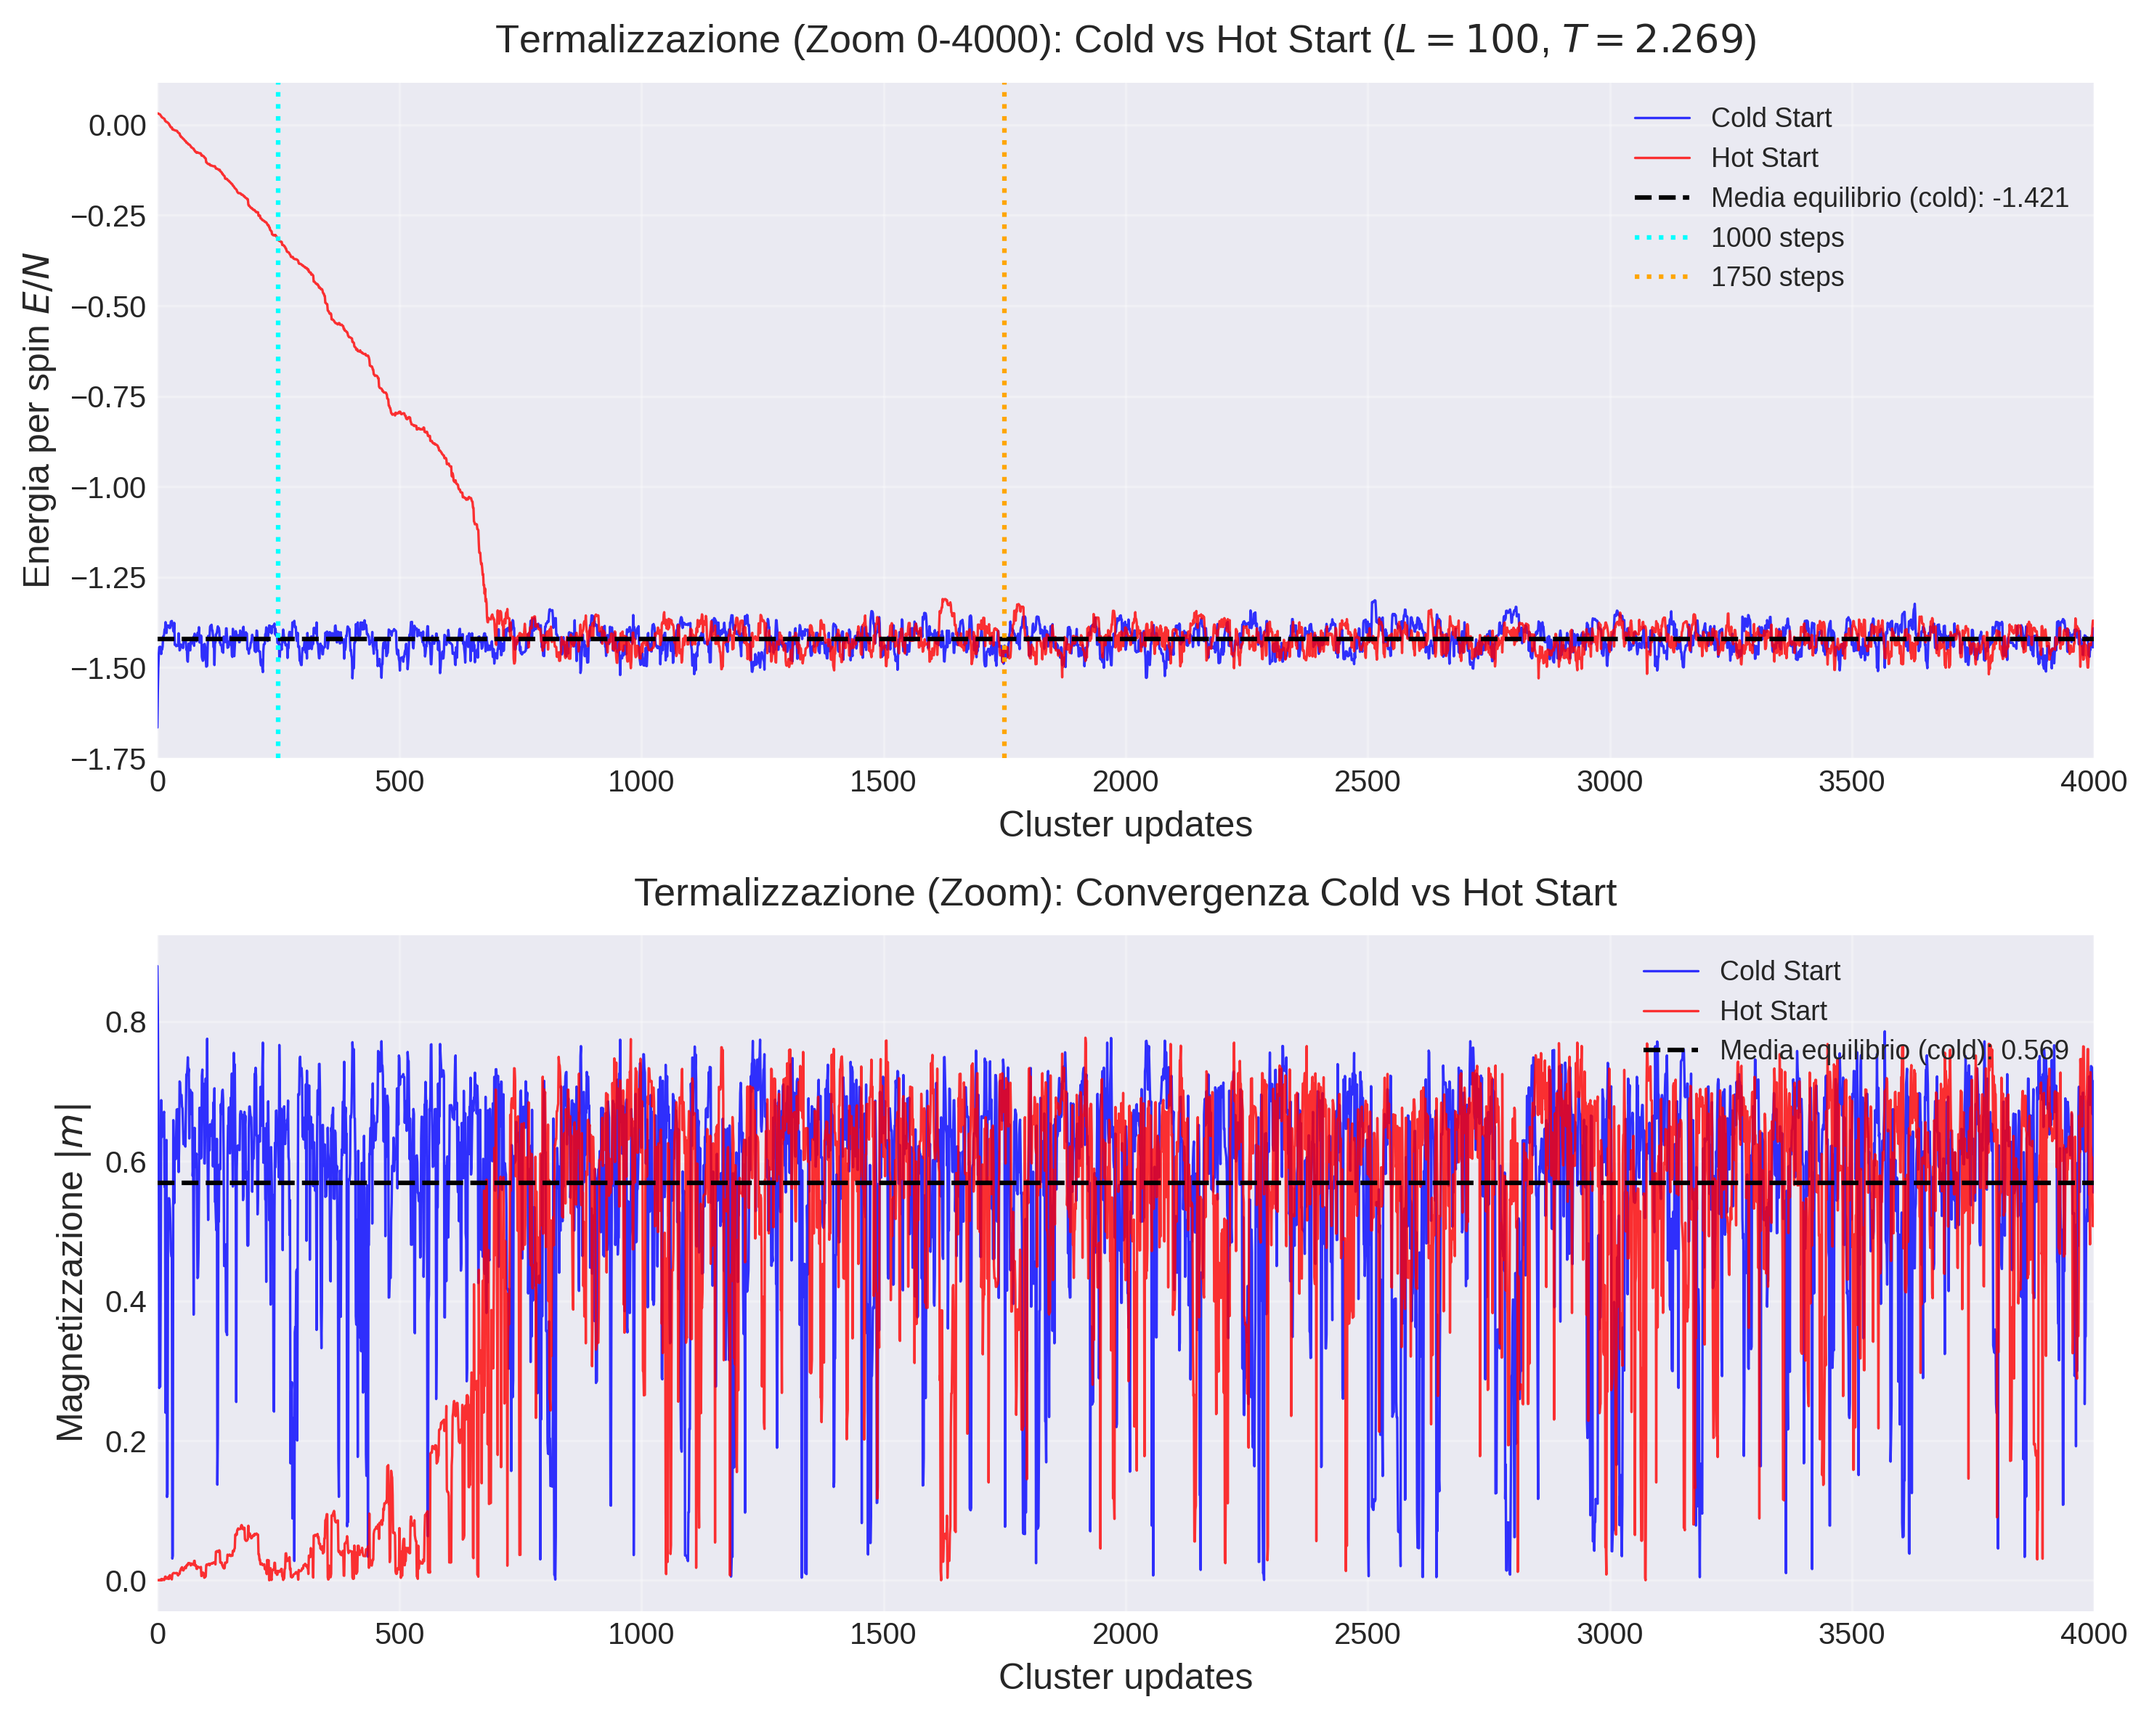
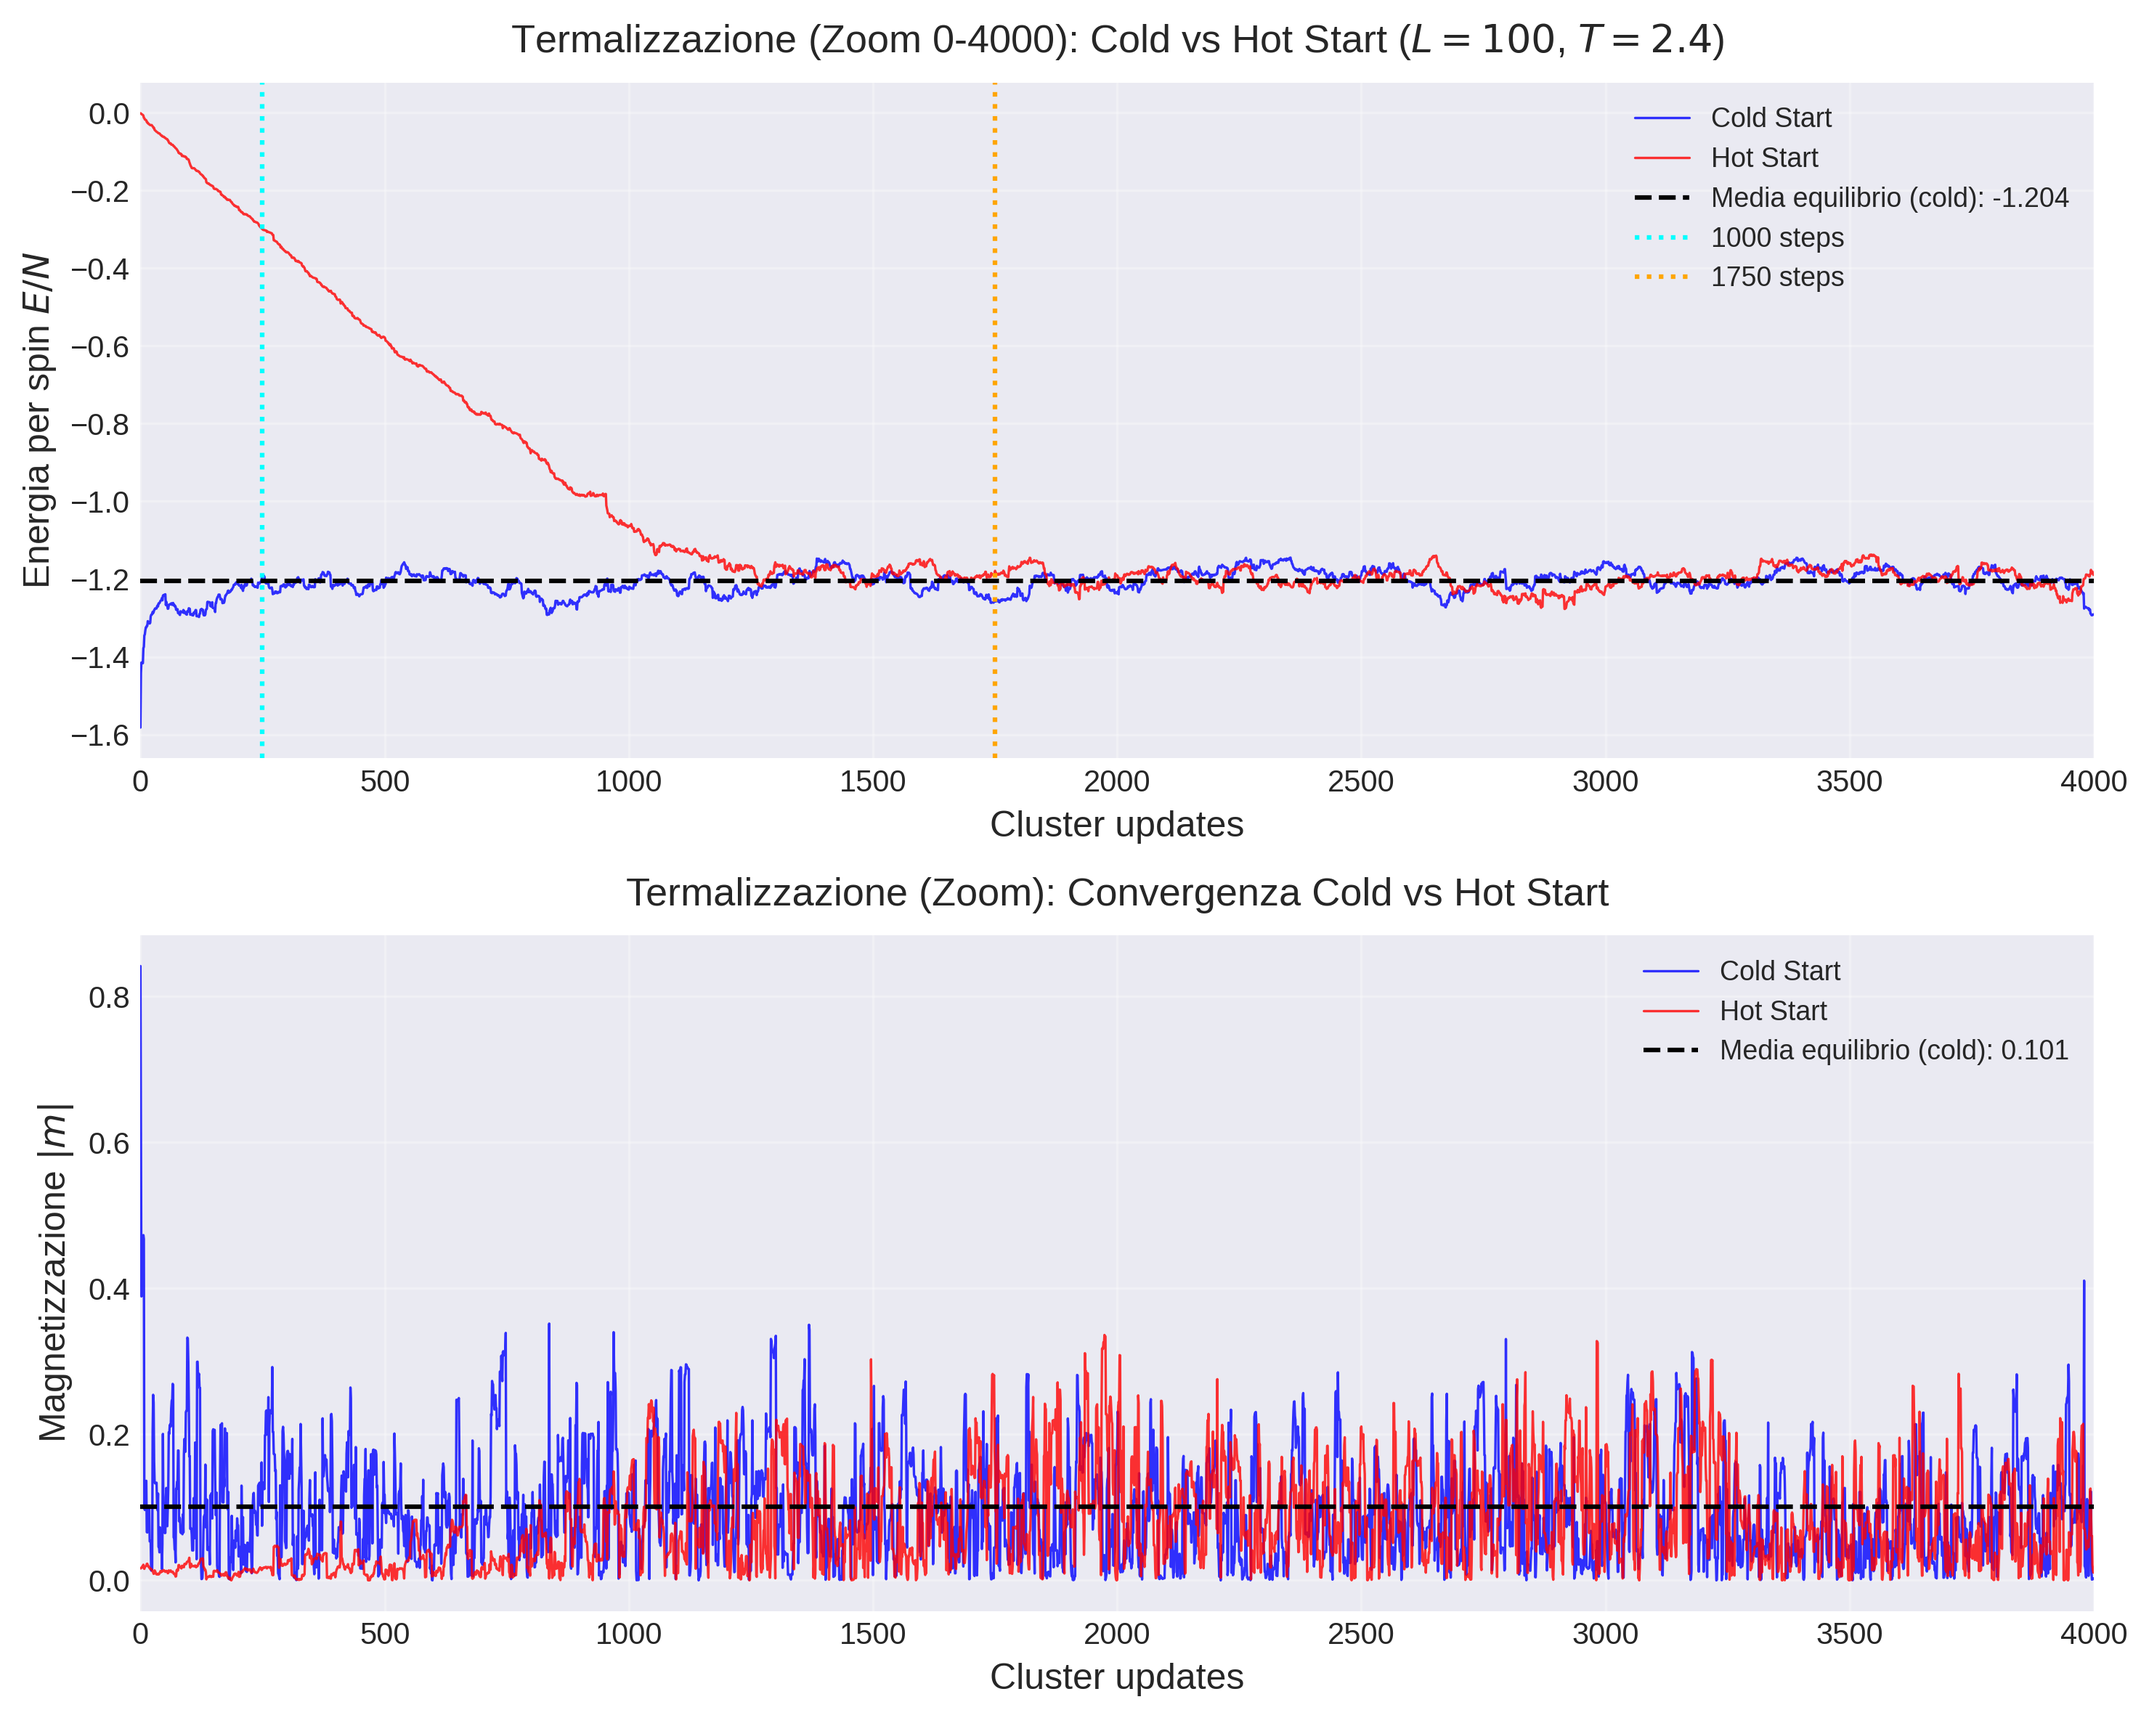
auto: 2026-01-19 14:30:01

diff --git a/Module1/src/thermalization_test.c b/Module1/src/thermalization_test.c
@@ -4,10 +4,15 @@
  * Esegue DUE simulazioni (cold start e hot start) e salva E(t), m(t)
  * ad ogni step durante la termalizzazione per analisi.
  *
- * Parametri letti da params.txt:
- *   THERM_L      - Dimensione reticolo
- *   THERM_T      - Temperatura
- *   THERM_NSTEPS - Numero di cluster updates
+ * Parametri OBBLIGATORI letti da params.txt:
+ *   THERM_L           - Dimensione reticolo
+ *   THERM_T           - Temperatura
+ *   THERMALIZATION    - Steps di termalizzazione
+ *   MEASUREMENTS      - Steps di misura
+ *   THERMALIZATION_HOT - Steps per hot start
+ *
+ * nsteps_cold = THERMALIZATION + MEASUREMENTS
+ * nsteps_hot  = THERMALIZATION_HOT
  */
 
 #include <stdio.h>
@@ -23,7 +28,7 @@
 #define OUTPUT_FILE_HOT "data/thermalization_hot.dat"
 #define PARAMS_FILE "params.txt"
 
-/* Funzione per leggere parametri da params.txt */
+/* Funzione per leggere parametri da params.txt - NESSUN DEFAULT */
 static int read_params(int *L, double *T, int *nsteps_cold, int *nsteps_hot) {
     FILE *fp = fopen(PARAMS_FILE, "r");
     if (!fp) {
@@ -32,12 +37,8 @@ static int read_params(int *L, double *T, int *nsteps_cold, int *nsteps_hot) {
     }
 
     char line[256];
-    int found_L = 0, found_T = 0;
-    int found_therm = 0, found_meas = 0, found_hot = 0;
-
-    // Valori default
-    *nsteps_cold = 410000;
-    *nsteps_hot = 10000;
+    int found_L = 0, found_T = 0, found_therm = 0, found_meas = 0, found_hot = 0;
+    int thermalization = 0, measurements = 0;
 
     while (fgets(line, sizeof(line), fp)) {
         // Salta commenti e righe vuote
@@ -46,7 +47,7 @@ static int read_params(int *L, double *T, int *nsteps_cold, int *nsteps_hot) {
         // Rimuovi newline
         line[strcspn(line, "\n")] = 0;
 
-        // Parsing
+        // Parsing - IMPORTANTE: THERMALIZATION_HOT deve essere controllato PRIMA di THERMALIZATION
         if (strstr(line, "THERM_L") && strstr(line, "=")) {
             char *eq = strchr(line, '=');
             if (eq) {
@@ -71,46 +72,49 @@ static int read_params(int *L, double *T, int *nsteps_cold, int *nsteps_hot) {
         else if (strstr(line, "THERMALIZATION") && strstr(line, "=") && !strstr(line, "HOT")) {
             char *eq = strchr(line, '=');
             if (eq) {
+                thermalization = atoi(eq + 1);
                 found_therm = 1;
-                // nsteps_cold = THERMALIZATION + MEASUREMENTS
             }
         }
         else if (strstr(line, "MEASUREMENTS") && strstr(line, "=")) {
             char *eq = strchr(line, '=');
             if (eq) {
+                measurements = atoi(eq + 1);
                 found_meas = 1;
             }
         }
     }
-
-    // Rileggi per calcolare nsteps_cold = THERMALIZATION + MEASUREMENTS
-    rewind(fp);
-    int therm_val = 10000, meas_val = 400000;
-    while (fgets(line, sizeof(line), fp)) {
-        if (line[0] == '#' || line[0] == '\n') continue;
-        line[strcspn(line, "\n")] = 0;
-
-        if (strstr(line, "THERMALIZATION") && strstr(line, "=") && !strstr(line, "HOT")) {
-            char *eq = strchr(line, '=');
-            if (eq) therm_val = atoi(eq + 1);
-        }
-        else if (strstr(line, "MEASUREMENTS") && strstr(line, "=")) {
-            char *eq = strchr(line, '=');
-            if (eq) meas_val = atoi(eq + 1);
-        }
-    }
-    *nsteps_cold = therm_val + meas_val;
-
     fclose(fp);
 
-    if (!found_L || !found_T) {
-        fprintf(stderr, "ERRORE: parametri THERM_L, THERM_T non trovati in %s\n", PARAMS_FILE);
+    // Verifica che TUTTI i parametri siano stati trovati
+    int error = 0;
+    if (!found_L) {
+        fprintf(stderr, "ERRORE: parametro THERM_L non trovato in %s\n", PARAMS_FILE);
+        error = 1;
+    }
+    if (!found_T) {
+        fprintf(stderr, "ERRORE: parametro THERM_T non trovato in %s\n", PARAMS_FILE);
+        error = 1;
+    }
+    if (!found_therm) {
+        fprintf(stderr, "ERRORE: parametro THERMALIZATION non trovato in %s\n", PARAMS_FILE);
+        error = 1;
+    }
+    if (!found_meas) {
+        fprintf(stderr, "ERRORE: parametro MEASUREMENTS non trovato in %s\n", PARAMS_FILE);
+        error = 1;
+    }
+    if (!found_hot) {
+        fprintf(stderr, "ERRORE: parametro THERMALIZATION_HOT non trovato in %s\n", PARAMS_FILE);
+        error = 1;
+    }
+
+    if (error) {
         return 0;
     }
 
-    if (!found_hot) {
-        printf("NOTA: THERMALIZATION_HOT non trovato, uso default %d\n", *nsteps_hot);
-    }
+    // Calcola nsteps_cold = THERMALIZATION + MEASUREMENTS
+    *nsteps_cold = thermalization + measurements;
 
     return 1;
 }

diff --git a/Module1/paper/paper.tex b/Module1/paper/paper.tex
@@ -358,7 +358,7 @@ In questo caso sono stati eseguiti 10000 cluster update, il motivo è puramente 
 
 \begin{figure}[H]
     \centering
-    \includegraphics[width=\columnwidth]{../plots/thermalization.png}
+    \includegraphics[width=\columnwidth]{../plots/thermalization_good.png}
     \includegraphics[width=\columnwidth]{../plots/thermalization_zoom_good.png}
     \caption{Esempio di termalizzazione per $L=200$ a $T=2.4$. Le regioni evidenziate mostrano la fase di termalizzazione (primi 10000 steps, in rosso) e la fase di misura in equilibrio (steps successivi, in verde). Dopo $\sim 1000$ (linea verticale viola) step l'energia ha raggiunto un regime stazionario, la magnetizzazione, invece, lo raggiunge molto prima. In basso uno zoom delle prime 15000 misurazioni}
     \label{fig:therm}
